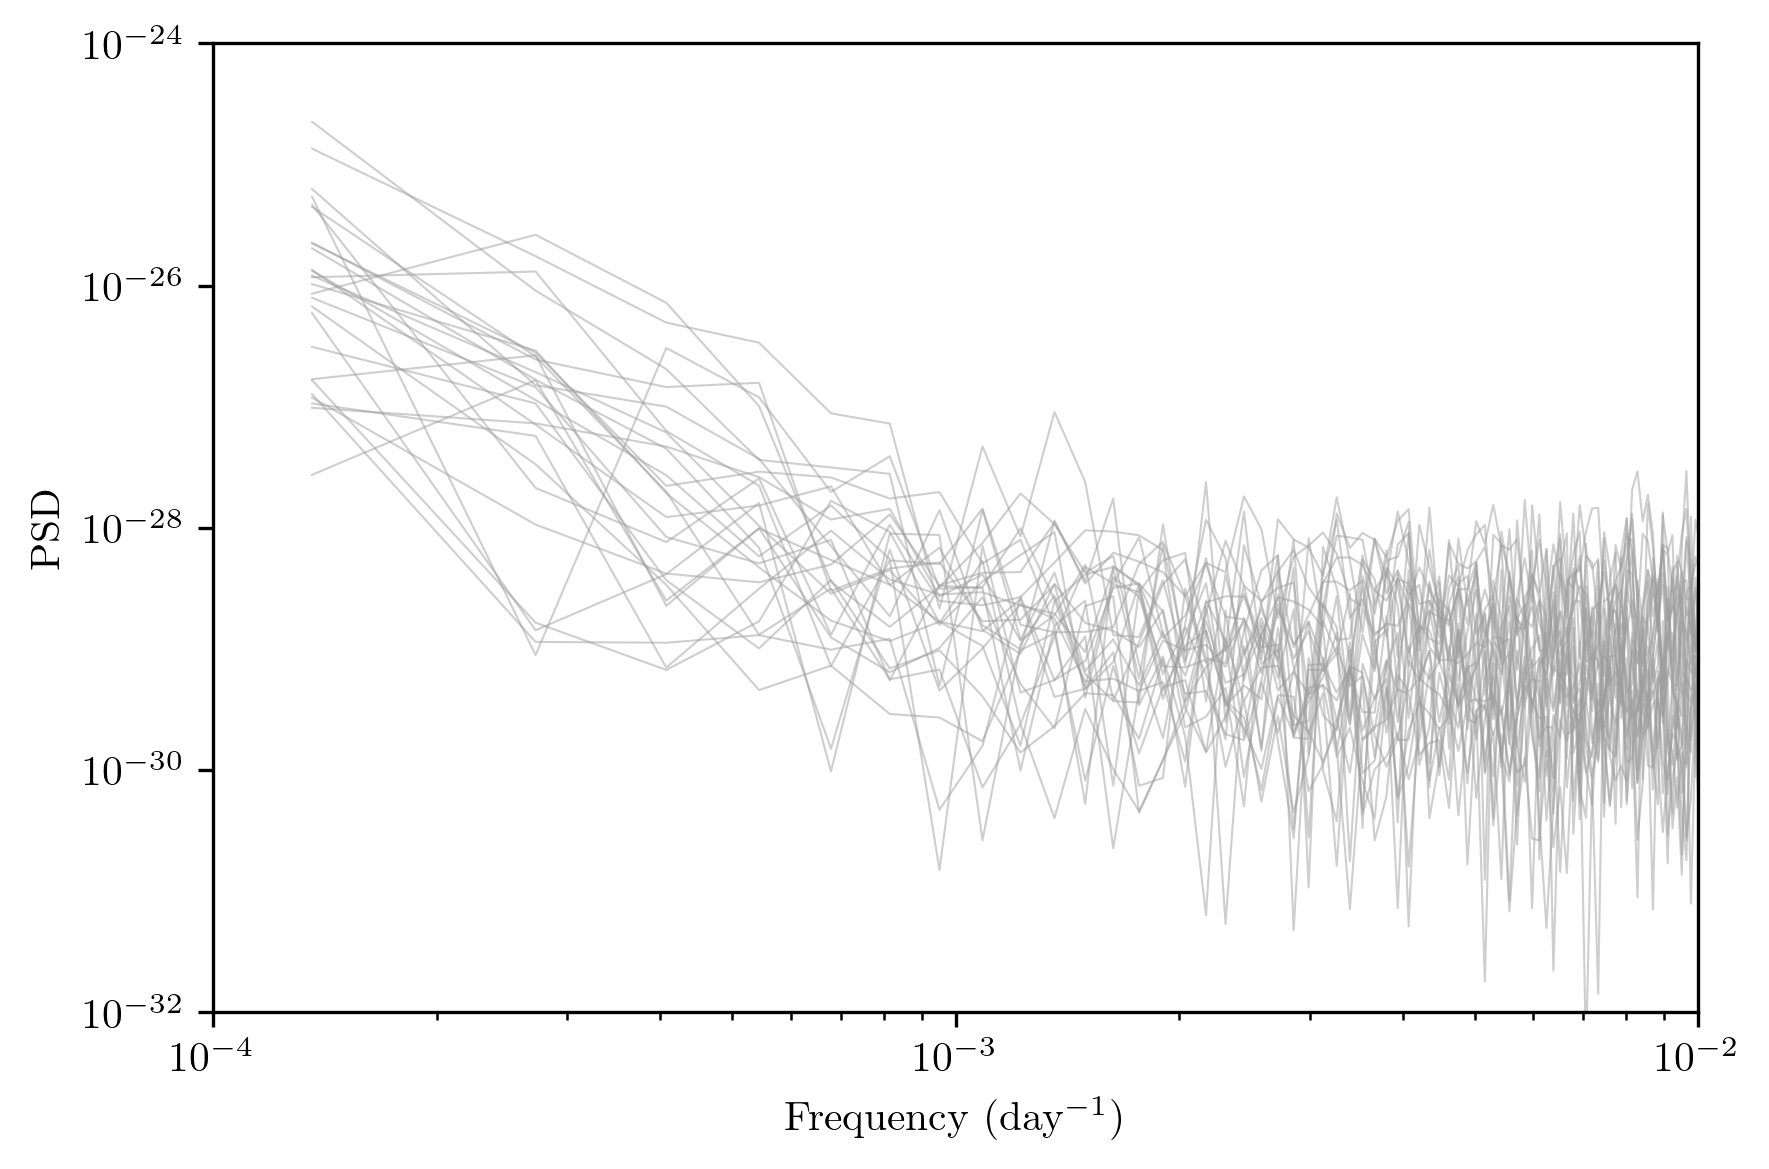
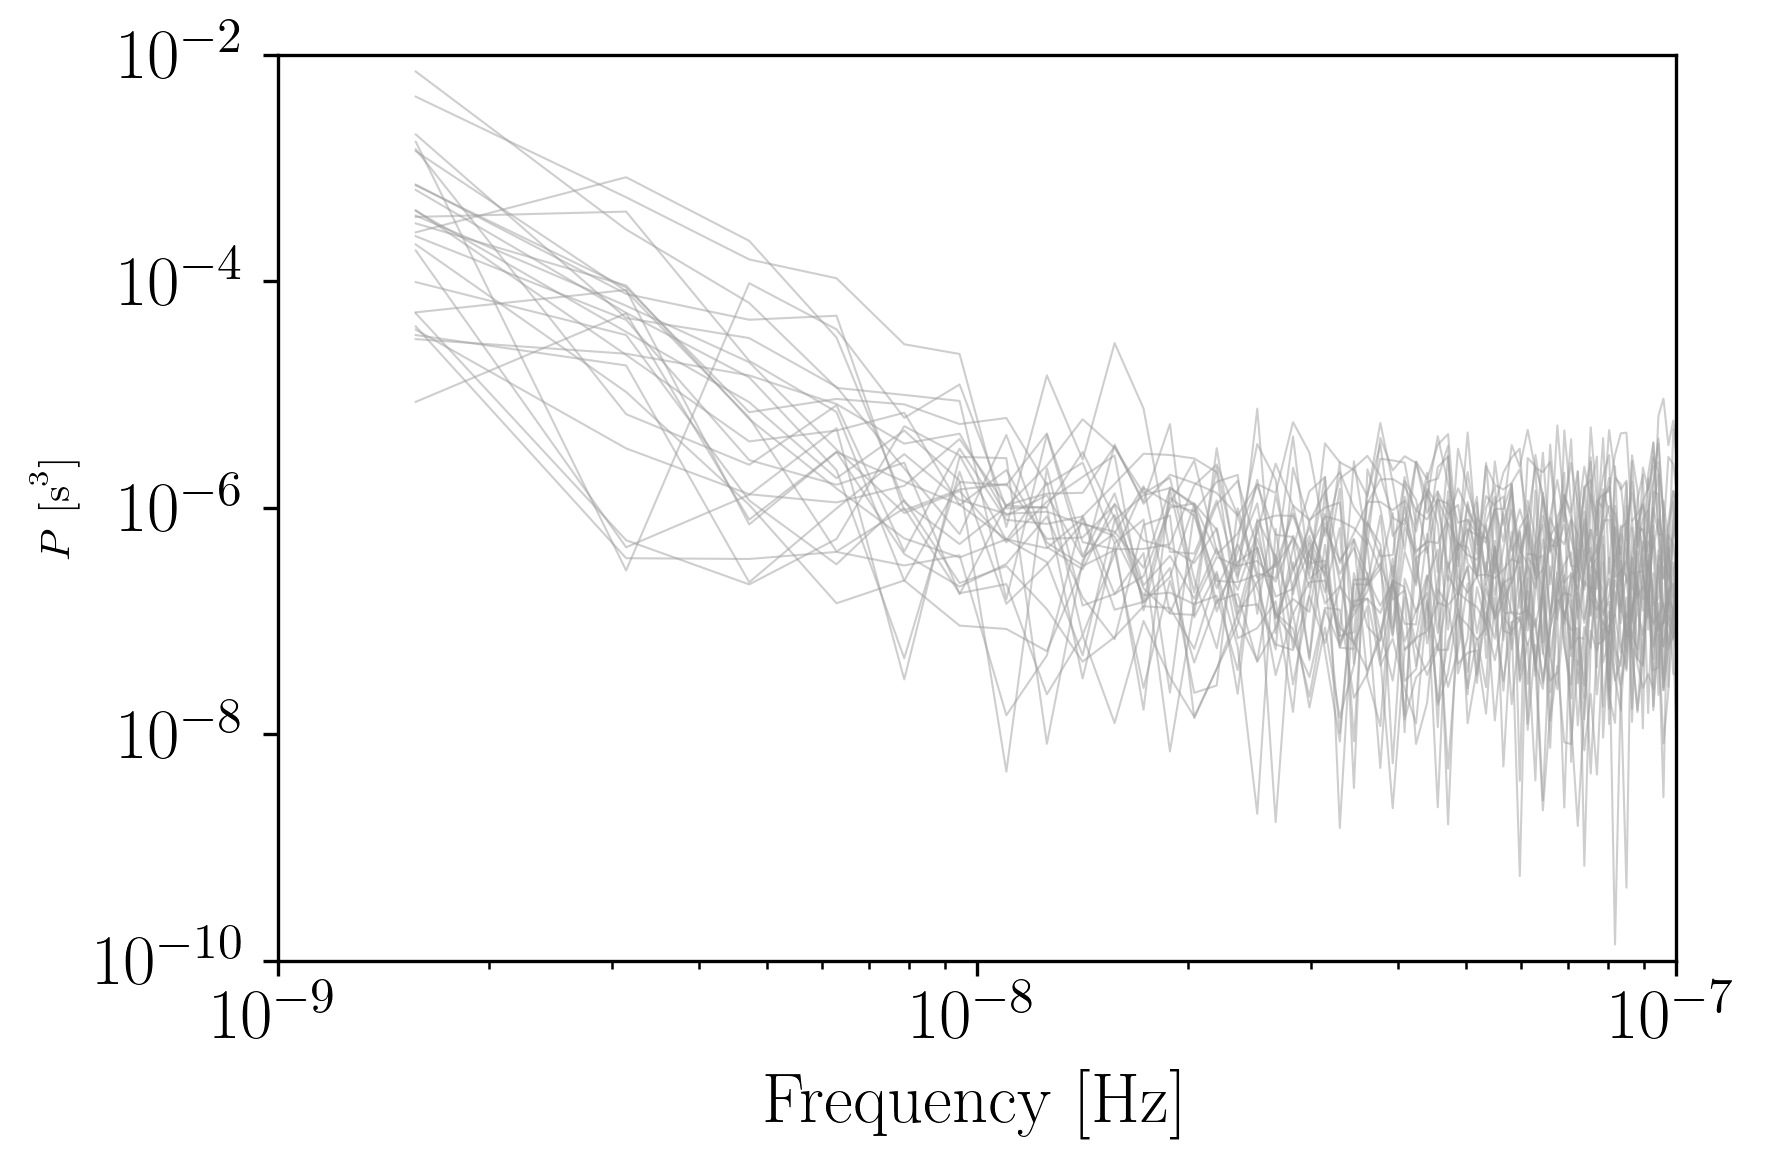
fixed plot_cholspec

diff --git a/ptasim_26psr_similar/plot_cholspec.py b/ptasim_26psr_similar/plot_cholspec.py
@@ -43,12 +43,12 @@ max_spec_ch0 = np.amax(spec_ch0s)
 
 ax1.set_xscale('log')
 ax1.set_yscale('log')
-ax1.set_xlabel(r'$\\mathrm{Frequency,~[Hz]}$', fontdict=font)
-ax1.set_ylabel(r'$P\\mathrm{[s}^3\\mathrm{]}')
+ax1.set_xlabel(r'$\mathrm{Frequency~[Hz]}$', fontdict=font)
+ax1.set_ylabel(r'$P~\mathrm{{[s}}^3\mathrm{{]}}$')
 ax1.tick_params(axis='y', labelsize = font['size'])
 ax1.tick_params(axis='x', labelsize = font['size'])
 ax1.set_ylim(10**(int(np.log10(ax1.get_ylim()[0]))), 10**(int(np.log10(max_spec_ch0))))
-ax1.set_xlim(10**(int(np.log10(ax1.get_xlim()[0]) - 1)),1E-2)
+ax1.set_xlim(10**(int(np.log10(ax1.get_xlim()[0]) - 1)),1E-7)
 
 fig.tight_layout()
 plt.savefig('{}_cholspec_similar.png'.format(spec_dir), dpi = 300, bbox_inches = 'tight', facecolor='white')
